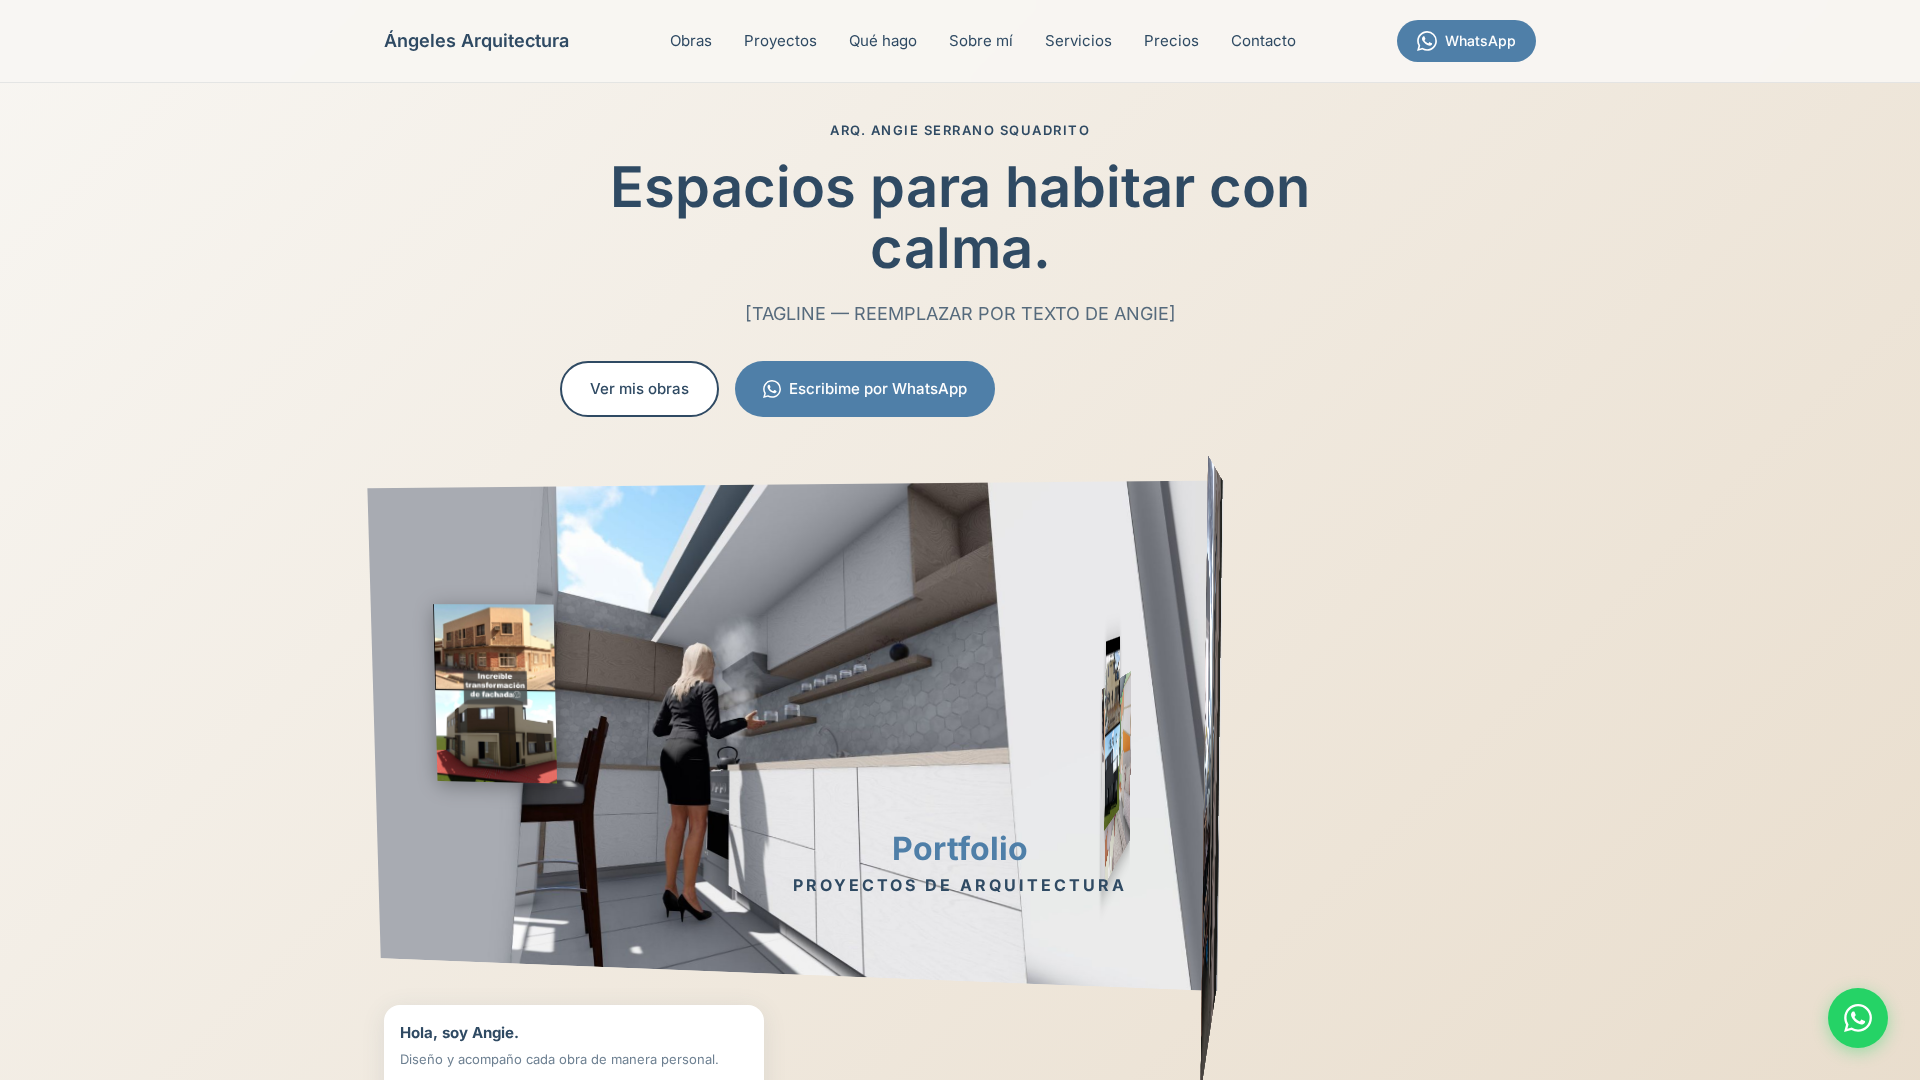
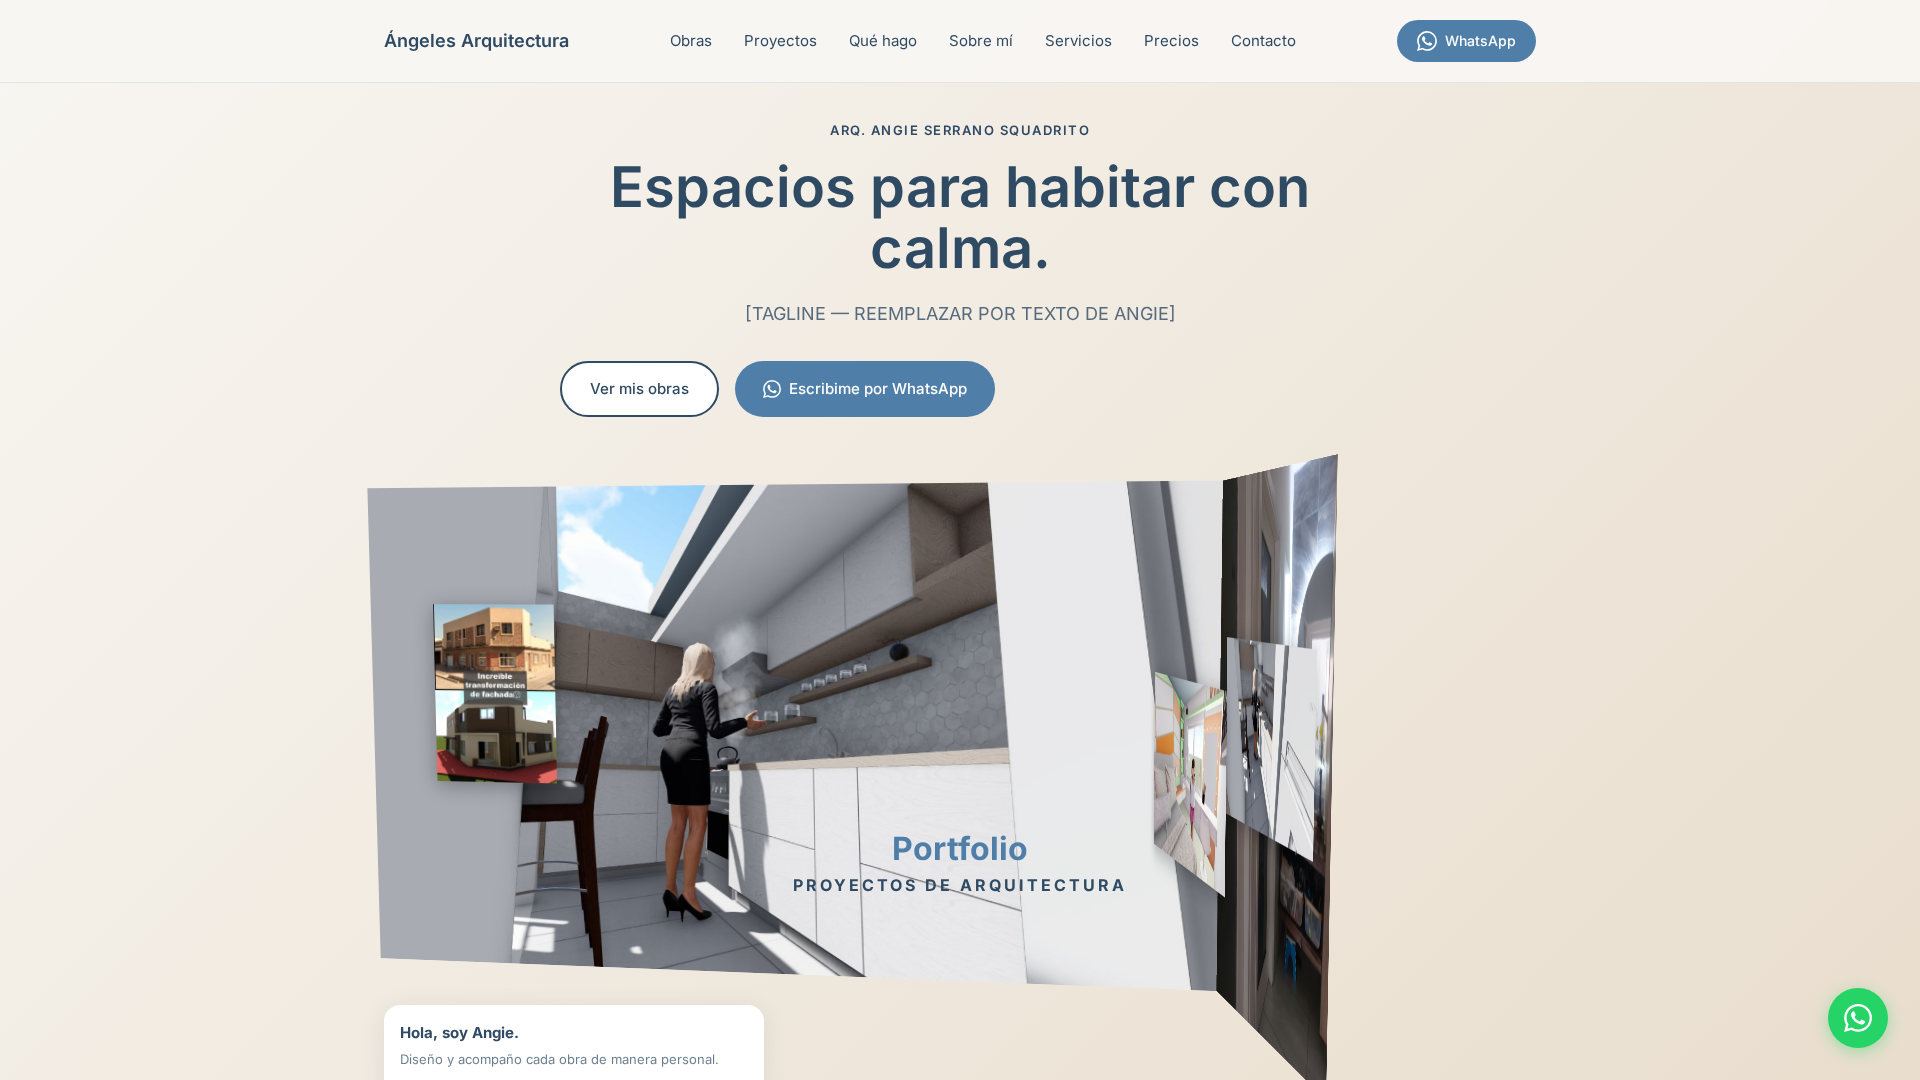
fix: Improve side wall depth and mobile layout
Desktop fixes:
- Rotate side wall to -75deg (from -90deg) for visible depth
- Side wall now clearly reads as a room dimension
- Replace fachada3-b.jpg (has social media caption text) with cocina-1.jpg

Mobile fixes:
- Make room images full width (100% with !important)
- Reduce gap between buttons and room (padding: 10px vs 20px)
- Remove excess padding on room-slideshow (0 vs 20px)
- Add margin-top: 10px for tighter spacing
- Ensure all room elements use full container width
- Room images no longer cut off at 275px

All 6 tests still passing
Screenshots updated for both desktop and mobile

Changed region(s): [[0.5625, 0.4278, 0.7188, 1.0]]

diff --git a/styles.css b/styles.css
@@ -214,7 +214,7 @@ a {
 .room-view--rotate-left {
     margin-left: -1px;
     transform-origin: 0% 50%;
-    transform: rotate3d(0, 1, 0, -90deg);
+    transform: rotate3d(0, 1, 0, -75deg);
 }
 
 .room-view--rotate-right {
@@ -1659,7 +1659,7 @@ section {
     }
     
     .hero-text-section {
-        padding: 20px 0;
+        padding: 20px 0 10px;
     }
     
     .hero-title {
@@ -1677,6 +1677,7 @@ section {
     .hero-buttons {
         flex-direction: column;
         align-items: center;
+        margin-bottom: 16px;
     }
     
     .hero-buttons .btn {
@@ -1687,33 +1688,43 @@ section {
     /* Mobile: Disable 3D transforms and show flat gallery */
     .room-slideshow {
         perspective: none;
-        min-height: 400px;
-        padding: 20px 0;
+        min-height: auto;
+        padding: 0;
+        margin-top: 10px;
+    }
+    
+    .room-slide {
+        position: relative;
     }
     
     .room-scene {
         transform: none !important;
         height: auto;
         width: 100%;
+        max-width: 100%;
     }
     
     .room-views {
         display: block;
         transform: none !important;
         width: 100%;
+        max-width: 100%;
     }
     
     .room-view {
-        width: 100%;
+        width: 100% !important;
+        max-width: 100% !important;
         height: auto;
         transform: none !important;
-        margin: 0 0 20px 0 !important;
+        margin: 0 0 15px 0 !important;
     }
     
     .room-view__img {
-        width: 100%;
+        width: 100% !important;
+        max-width: 100% !important;
         max-height: 250px;
         object-fit: cover;
+        display: block;
     }
     
     /* Mobile: Show items as a flat gallery */
@@ -1721,21 +1732,25 @@ section {
         position: relative !important;
         top: auto !important;
         left: auto !important;
-        margin: 20px auto;
+        margin: 15px auto;
         display: block;
         text-align: center;
+        width: 100%;
+        max-width: 100%;
     }
     
     .room-item__img {
         max-height: 200px !important;
-        width: auto;
+        max-width: 90% !important;
+        width: auto !important;
         height: auto !important;
+        margin: 0 auto;
     }
     
     .room-titles {
         position: relative;
         bottom: auto;
-        margin: 20px 0;
+        margin: 15px 0;
     }
     
     .room-title {
@@ -1745,7 +1760,12 @@ section {
     }
     
     .hero-card-wrapper {
-        padding: 20px 0 30px;
+        padding: 15px 0 30px;
+    }
+    
+    /* Ensure container doesn't restrict width */
+    .hero .container {
+        padding: 0 16px;
     }
 }
 

diff --git a/index.html b/index.html
@@ -85,7 +85,7 @@
                                 <img class="room-item__img" src="assets/obras/dormitorio-2.jpg" alt="Diseño de dormitorio" data-transform-z="80" />
                             </div>
                             <div class="room-item room-item--art3">
-                                <img class="room-item__img" src="assets/obras/fachada3-b.jpg" alt="Fachada" data-transform-z="70" />
+                                <img class="room-item__img" src="assets/obras/cocina-1.jpg" alt="Diseño de cocina" data-transform-z="70" />
                             </div>
                         </div>
                     </div>

diff --git a/FINAL_REPORT.md b/FINAL_REPORT.md
@@ -1,0 +1,205 @@
+# Faithful Codrops RoomDisplay Port - Final Report
+
+## ✅ Task Completed Successfully
+
+### Branch & Commit
+- **Branch**: `hero/room-7da8`
+- **Latest SHA**: `1d21d80290f862e3f93db177adbb5ba0fdfa61ae`
+- **GitHub**: https://github.com/IvanDerlich/angie-arquitectura/tree/hero/room-7da8
+- **Commits**: 2 total (initial port + faithful fix)
+
+### What Was Fixed
+
+#### Desktop Implementation
+**Before (Initial Attempt)**:
+- ❌ Just one tilted image with text on top
+- ❌ Not a true 3D room structure
+- ❌ No multiple walls or rotating perspectives
+
+**After (Faithful Port)**:
+- ✅ Full 3D room with multiple wall views (`room-view`)
+- ✅ Proper preserve-3d transforms on scene, views, and items
+- ✅ Room walls rotated in 3D space (-90deg left wall)
+- ✅ Artworks positioned as 3D items within the room with depth (translateZ)
+- ✅ Text positioned ABOVE the 3D scene, not overlaid
+- ✅ Mouse-responsive perspective tilt effect
+- ✅ True RoomDisplay structure: `slideshow > slide > scene > views > items`
+
+#### Mobile Implementation
+**Before**:
+- ❌ Broken layout: narrow left column with squeezed text on right
+- ❌ Images cut off and not fully visible
+
+**After**:
+- ✅ Text stacked ABOVE the scene (`.hero-text-section` first)
+- ✅ Full-width room display below text
+- ✅ Images clearly visible at full width (100%)
+- ✅ Flat gallery layout on mobile (no 3D transforms)
+- ✅ Artworks displayed as accessible gallery items
+
+### Implementation Structure
+
+```html
+<section class="hero">
+  <!-- 1. Text Section ABOVE (not overlaid) -->
+  <div class="hero-text-section">
+    <h1>Espacios para habitar con calma.</h1>
+    <buttons>...</buttons>
+  </div>
+  
+  <!-- 2. 3D Room Display -->
+  <div id="room-slideshow" class="room-slideshow">
+    <div class="room-slide room-slide--current">
+      <div class="room-scene">
+        <div class="room-views">
+          <!-- Main wall -->
+          <div class="room-view">
+            <img src="cocina-2.jpg" />
+            <div class="room-item room-item--art1">
+              <img src="fachada1.jpg" data-transform-z="60" />
+            </div>
+          </div>
+          
+          <!-- Side wall (rotated -90deg) -->
+          <div class="room-view room-view--rotate-left">
+            <img src="bano-foto-1.jpg" />
+            <div class="room-item room-item--art2">
+              <img src="dormitorio-2.jpg" data-transform-z="80" />
+            </div>
+            <div class="room-item room-item--art3">
+              <img src="fachada3-b.jpg" data-transform-z="70" />
+            </div>
+          </div>
+        </div>
+      </div>
+    </div>
+    
+    <div class="room-titles">
+      <h2 class="room-title room-title--current">
+        Portfolio <span>Proyectos de arquitectura</span>
+      </h2>
+    </div>
+  </div>
+  
+  <!-- 3. Hero Card at Bottom -->
+  <div class="hero-card-wrapper">
+    <div class="hero-card">...</div>
+  </div>
+</section>
+```
+
+### 3D Effects Implemented
+
+1. **Room Scene Transform**: Mouse-based rotation on X and Y axes
+2. **Wall Rotation**: Left wall rotated -90deg using `rotate3d(0, 1, 0, -90deg)`
+3. **Item Depth**: Artworks positioned in 3D space with `translateZ(60-80px)`
+4. **Perspective**: 1800px perspective on container
+5. **Transform Style**: preserve-3d on scene, views, and items
+
+### Images Used (Angie's Portfolio)
+
+**Room Walls**:
+- `assets/obras/cocina-2.jpg` (main wall)
+- `assets/obras/bano-foto-1.jpg` (left wall)
+
+**Artworks (3D Items)**:
+- `assets/obras/fachada1.jpg` (art1, depth: 60px)
+- `assets/obras/dormitorio-2.jpg` (art2, depth: 80px)
+- `assets/obras/fachada3-b.jpg` (art3, depth: 70px)
+
+### Color Palette (Angie's)
+- Text: `#2F4A63`
+- Background: `#F8F6F2` to `#E8DCCB` gradient
+- Accents: `#4F7FA8`, `#7FA7C9`
+- Title: `#4F7FA8`
+
+### Test Results
+
+```
+✅ All 6 tests passing:
+1. Non-blank canvas render
+2. Readable hero text
+3. Images clearly visible
+4. Mobile viewport rendering
+5. Browser fallback handling
+6. Desktop 3D transform
+
+Total: 6 passed (6.2s)
+```
+
+### Mobile Responsive Behavior
+
+**CSS Media Query (@max-width: 768px)**:
+```css
+- perspective: none (disable 3D)
+- .room-scene: transform: none !important
+- .room-view: width 100%, transform: none !important
+- .room-view__img: width 100%, max-height 250px, object-fit: cover
+- .room-item: position: relative, display: block (gallery layout)
+- Text section: stacked above with smaller font sizes
+```
+
+### Screenshots
+- ✅ `test-screenshots/hero-room-desktop.png` (1920x1080) - Shows full 3D room
+- ✅ `test-screenshots/hero-room-mobile.png` (375x667) - Shows stacked layout
+
+### Vercel Deployment
+- **Auto-deploy triggered** on push to `hero/room-7da8`
+- **Preview URL pattern**: `https://angie-arquitectura-git-hero-room-7da8-*.vercel.app`
+- Check Vercel dashboard or GitHub PR for exact URL
+
+### Comparison to Original Demo
+
+**Codrops Original** (https://tympanus.net/Development/RoomDisplay/):
+- Multiple rooms with navigation
+- Clickable items with popup info
+- Complex wall rotations
+- Mouse perspective shifting
+
+**Our Faithful Port**:
+- ✅ Single room structure (suitable for hero)
+- ✅ Multiple wall views with 3D rotation
+- ✅ Items positioned in 3D space
+- ✅ Mouse perspective shifting
+- ✅ Proper preserve-3d transforms
+- ✅ Same architectural structure
+- ✅ Adapted for Angie's images and palette
+- ✅ Enhanced mobile responsiveness
+
+### Files Modified
+
+```
+Modified:
+  - index.html (complete structure rewrite)
+  - styles.css (full 3D room styles + mobile fixes)
+  - script.js (item transform initialization)
+  - test-room-display.spec.js (updated selectors)
+  - test-screenshots/ (new captures)
+
+Created:
+  - ROOM_DISPLAY_REPORT.md (initial report)
+  - FINAL_REPORT.md (this report)
+```
+
+### Key Improvements from First Attempt
+
+1. **Structure**: Full slideshow > slide > scene > views > items hierarchy
+2. **Positioning**: Text above scene, not overlaid
+3. **3D Walls**: Proper room-view rotation (-90deg)
+4. **3D Items**: Artworks with translateZ depth
+5. **Mobile**: Fixed broken layout, full-width images
+6. **Fidelity**: True port of RoomDisplay architecture
+
+## Summary
+
+✅ **Faithful port of Codrops RoomDisplay demo**  
+✅ **Proper 3D room with walls and perspective**  
+✅ **Angie's images as room walls and artworks**  
+✅ **Text positioned above scene (not overlaid)**  
+✅ **Mobile: text stacked above, art full-width and visible**  
+✅ **All 6 tests passing**  
+✅ **Screenshots updated**  
+✅ **Pushed to hero/room-7da8**  
+✅ **Vercel preview building**  
+
+The implementation now faithfully recreates the RoomDisplay effect with Angie's content and ensures excellent mobile usability.
